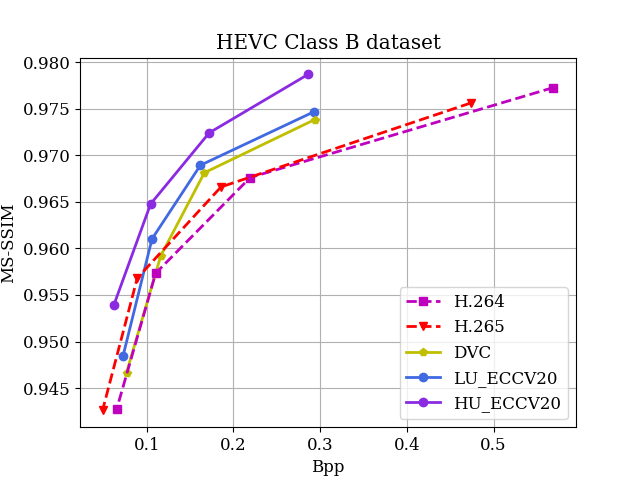
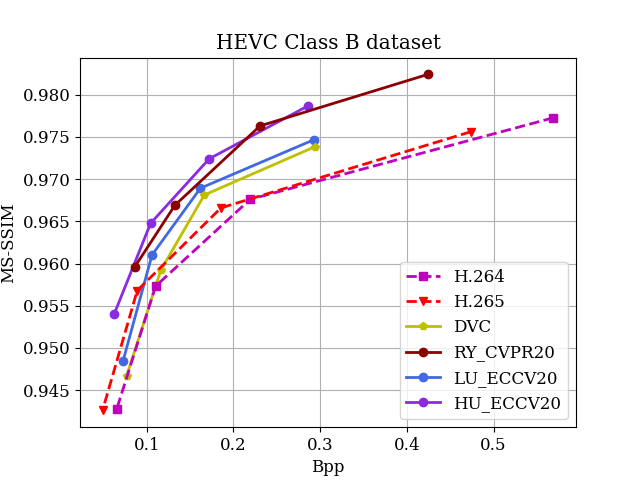
Add RY_CVPR20

diff --git a/Benchmark/draw_HEVC.py b/Benchmark/draw_HEVC.py
@@ -21,6 +21,9 @@ def drawhevc(hclass):
         bpp, psnr = [0.292566,0.161836, 0.106004, 0.072696], [35.490834,34.388072,33.31253, 32.153002]
         LU, = plt.plot(bpp, psnr, "c-o", color="royalblue", linewidth=LineWidth, label='LU_ECCV20')
 
+        bpp, psnr = [0.0688, 0.1093, 0.1883, 0.3536], [31.7031, 33.2380, 34.5965, 35.7882]
+        RY, = plt.plot(bpp, psnr, "c-o", color="darkred", linewidth=LineWidth, label='RY_CVPR20')
+
         # bpp = [0.0661, 0.09362000000000001, 0.14695999999999998, 0.2232]
         # psnr = [32.721524294756705, 33.61284158051482, 34.75174138791608, 35.718610694312616]
         # msssim = [0.959144, 0.964186, 0.97111, 0.9765840000000001]
@@ -46,6 +49,9 @@ def drawhevc(hclass):
         bpp, psnr = [0.44329, 0.2811825,  0.186065, 0.12845], [34.443885, 32.3978875, 30.7971525, 29.249145]
         LU, = plt.plot(bpp, psnr, "c-o", color="royalblue", linewidth=LineWidth, label='LU_ECCV20')
         
+        bpp, psnr = [0.1117, 0.1951, 0.3158, 0.5441], [28.4321, 30.4874, 32.2846, 34.2527]
+        RY, = plt.plot(bpp, psnr, "c-o", color="darkred", linewidth=LineWidth, label='RY_CVPR20')
+        
         # bpp = [0.12157499999999999, 0.17965, 0.271025, 0.38745]
         # psnr = [28.63609903605147, 29.944387388321196, 31.54062511303266, 33.03500011196936]
         # msssim = [0.9578025, 0.9686675, 0.9776324999999999, 0.98348]
@@ -70,6 +76,9 @@ def drawhevc(hclass):
         
         bpp, psnr = [0.4673675, 0.2995675, 0.19376,0.133075], [34.4069875, 32.2339375, 30.45044, 28.883315]
         LU, = plt.plot(bpp, psnr, "c-o", color="royalblue", linewidth=LineWidth, label='LU_ECCV20')
+        
+        bpp, psnr = [0.1173, 0.1990, 0.3347, 0.5589], [28.6544, 30.8125, 32.7950, 34.7743]
+        RY, = plt.plot(bpp, psnr, "c-o", color="darkred", linewidth=LineWidth, label='RY_CVPR20')
 
         
         # bpp = [0.11227499999999999, 0.17395000000000002, 0.264575, 0.38207500000000005]
@@ -121,8 +130,12 @@ def drawhevc(hclass):
     savepathpsnr = prefix + '/' + 'HEVCClass_' + hclass + '_psnr'# + '.eps'
     print(prefix)
     if not os.path.exists(prefix):
-        os.makedirs(prefix)
-    plt.legend(handles=[h264, h265, DVC, LU, RaFC], loc=4)
+        os.makedirs(prefix)    
+    if hclass != 'E':
+        plt.legend(handles=[h264, h265, DVC, RY, LU, RaFC], loc=4)
+    else:
+        plt.legend(handles=[h264, h265, DVC, LU, RaFC], loc=4)
+
     plt.grid()
     plt.xlabel('Bpp')
     plt.ylabel('PSNR')
@@ -139,6 +152,9 @@ def drawhevc(hclass):
 
         bpp, msssim = [0.292566,0.161836, 0.106004, 0.072696], [0.974654,0.968922,0.961012,0.948494]
         LU, = plt.plot(bpp, msssim, "c-o", color="royalblue", linewidth=LineWidth, label='LU_ECCV20')
+        
+        bpp, msssim = [0.0861, 0.1324, 0.2307, 0.4242], [0.9596, 0.9669, 0.9763, 0.9824]
+        RY, = plt.plot(bpp, msssim, "c-o", color="darkred", linewidth=LineWidth, label='RY_CVPR20')
 
         # bpp = [0.0661, 0.09362000000000001, 0.14695999999999998, 0.2232]
         # psnr = [32.721524294756705, 33.61284158051482, 34.75174138791608, 35.718610694312616]
@@ -166,6 +182,10 @@ def drawhevc(hclass):
 
         bpp, msssim = [0.1263825, 0.1769925, 0.258575,  0.4006125], [0.95457, 0.9681725, 0.978235, 0.9829975]
         LU, = plt.plot(bpp, msssim, "c-o", color="royalblue", linewidth=LineWidth, label='LU_ECCV20')
+        
+        bpp, msssim = [0.1147, 0.1551, 0.2581, 0.4118], [0.9565, 0.9624, 0.9790, 0.9856]
+        RY, = plt.plot(bpp, msssim, "c-o", color="darkred", linewidth=LineWidth, label='RY_CVPR20')
+
 
         # bpp = [0.12157499999999999, 0.17965, 0.271025, 0.38745]
         # psnr = [28.63609903605147, 29.944387388321196, 31.54062511303266, 33.03500011196936]
@@ -194,6 +214,10 @@ def drawhevc(hclass):
         bpp, msssim = [0.1341975, 0.190485, 0.2775625,0.4304825], [0.9600475, 0.9738, 0.98289, 0.98739]
         LU, = plt.plot(bpp, msssim, "c-o", color="royalblue", linewidth=LineWidth, label='LU_ECCV20')
         
+        bpp, msssim = [0.1072, 0.1496, 0.2376, 0.3794], [0.9633, 0.9693, 0.9833, 0.9891]
+        RY, = plt.plot(bpp, msssim, "c-o", color="darkred", linewidth=LineWidth, label='RY_CVPR20')
+
+        
         # bpp = [0.11227499999999999, 0.17395000000000002, 0.264575, 0.38207500000000005]
         # psnr = [28.82520179437781, 30.23478970812226, 31.91116994008828, 33.53631860458036]
         # msssim = [0.96777, 0.9763375, 0.9830949999999999, 0.98793]
@@ -220,7 +244,6 @@ def drawhevc(hclass):
         bpp, msssim = [0.11462,0.069586667,0.050683333,0.037183333], [0.988766667, 0.9864, 0.982756667, 0.976416667]
         LU, = plt.plot(bpp, msssim, "c-o", color="royalblue", linewidth=LineWidth, label='LU_ECCV20')
 
-        
         # bpp = [0.02223333333333333, 0.0281, 0.04416666666666667, 0.06459999999999999]
         # psnr = [36.119993400198794, 36.895272069830746, 37.95133358562974, 38.59336757723919]
         # msssim = [0.97991, 0.98177, 0.9831466666666667, 0.98547]
@@ -244,7 +267,11 @@ def drawhevc(hclass):
         exit(0)
         
     savepathmsssim = prefix + '/' + 'HEVCClass_' + hclass + '_msssim'# + '.eps'
-    plt.legend(handles=[h264, h265, DVC, LU, RaFC], loc=4)
+    if hclass != 'E':
+        plt.legend(handles=[h264, h265, DVC, RY, LU, RaFC], loc=4)
+    else:
+        plt.legend(handles=[h264, h265, DVC, LU, RaFC], loc=4)
+
     plt.grid()
     plt.xlabel('Bpp')
     plt.ylabel('MS-SSIM')

diff --git a/Benchmark/draw_uvg.py b/Benchmark/draw_uvg.py
@@ -28,6 +28,9 @@ LU, = plt.plot(bpp, psnr, "c-o", color="royalblue", linewidth=LineWidth, label='
 bpp, psnr =  [0.047607, 0.067984, 0.114375, 0.222292], [34.412507, 35.861409, 36.950722, 38.393440]
 EA, = plt.plot(bpp, psnr, "g-o", color="orange", linewidth=LineWidth, label='EA_CVPR20')
 
+bpp, msssim = [0.0524, 0.0781, 0.1278, 0.2303], [34.5390, 35.8618, 37.1899, 38.4590]
+RY, = plt.plot(bpp, msssim, "c-o", color="darkred", linewidth=LineWidth, label='RY_CVPR20')
+
 bpp = [0.12377, 0.16239, 0.1983, 0.229, 0.2699, 0.3113]
 psnr = [36.0736, 36.663, 36.9157, 37.1818, 37.5149, 37.6513]
 eccv, = plt.plot(bpp, psnr, "b-*", linewidth=LineWidth, label='CW_ECCV18')
@@ -76,6 +79,9 @@ LU, = plt.plot(bpp, psnr, "c-o", color="royalblue", linewidth=LineWidth, label='
 
 bpp, psnr =  [0.060844, 0.085622, 0.128203, 0.243156, 0.345827], [0.961259, 0.968878, 0.974102, 0.982171, 0.985049]
 EA, = plt.plot(bpp, psnr, "g-o", color="orange", linewidth=LineWidth, label='EA_CVPR20')
+
+bpp, msssim = [0.0764, 0.1133, 0.2125, 0.3839], [0.9640, 0.9693, 0.9779, 0.9832]
+RY, = plt.plot(bpp, msssim, "c-o", color="darkred", linewidth=LineWidth, label='RY_CVPR20')
 
 bpp = [0.12377, 0.16239, 0.1983, 0.229, 0.2699, 0.3113]
 msssim = [0.96126, 0.96591, 0.96708, 0.96867, 0.97117, 0.97186]

diff --git a/Benchmark/README.md b/Benchmark/README.md
@@ -7,6 +7,7 @@
 - <font color="#00bfbf">AD_ICCV19</font> : [Neural Inter-Frame Compression for Video Coding](https://openaccess.thecvf.com/content_ICCV_2019/papers/Djelouah_Neural_Inter-Frame_Compression_for_Video_Coding_ICCV_2019_paper.pdf)
 - <font color="#00FF00">AH_ICCV19</font> : [Video CompressionWith Rate-Distortion Autoencoders](https://arxiv.org/abs/1908.05717v2)
 - <font color="#008000">EA_CVPR20</font> : [Scale-space Flow for End-to-end Optimized Video Compression](https://ieeexplore.ieee.org/stamp/stamp.jsp?tp=&arnumber=9157366)
+- <font color="#8B0000">RY_CVPR20</font> : [Learning for Video Compression with Recurrent Auto-Encoder and Recurrent Probability Model](https://arxiv.org/pdf/2006.13560.pdf)
 - <font color="#8A2BE2">HU_ECCV20</font> : [Improving Deep Video Compression by Resolution-adaptive Flow Coding](http://www.ecva.net/papers/eccv_2020/papers_ECCV/papers/123470188.pdf)
 - <font color="#4169E1">LU_ECCV20</font> : [Content Adaptive and Error Propagation Aware Deep Video Compression](https://arxiv.org/pdf/2003.11282.pdf)
 - <font color="#ff8c0f">M-LVC</font> : [M-LVC: Multiple Frames Prediction for Learned Video Compression](https://arxiv.org/abs/2004.10290) (questionable)
@@ -21,7 +22,7 @@
 ## HEVC Class D dataset
 <!-- ![](HEVCresults/HEVCClass_D_psnr.png)![](HEVCresults/HEVCClass_D_msssim.png) -->
 ![](HEVCresults/HEVCClass_D.png)
-## HEVC Class B dataset
+## HEVC Class E dataset
 <!-- ![](HEVCresults/HEVCClass_E_psnr.png)![](HEVCresults/HEVCClass_E_msssim.png) -->
 ![](HEVCresults/HEVCClass_E.png)
 ## UVG dataset
